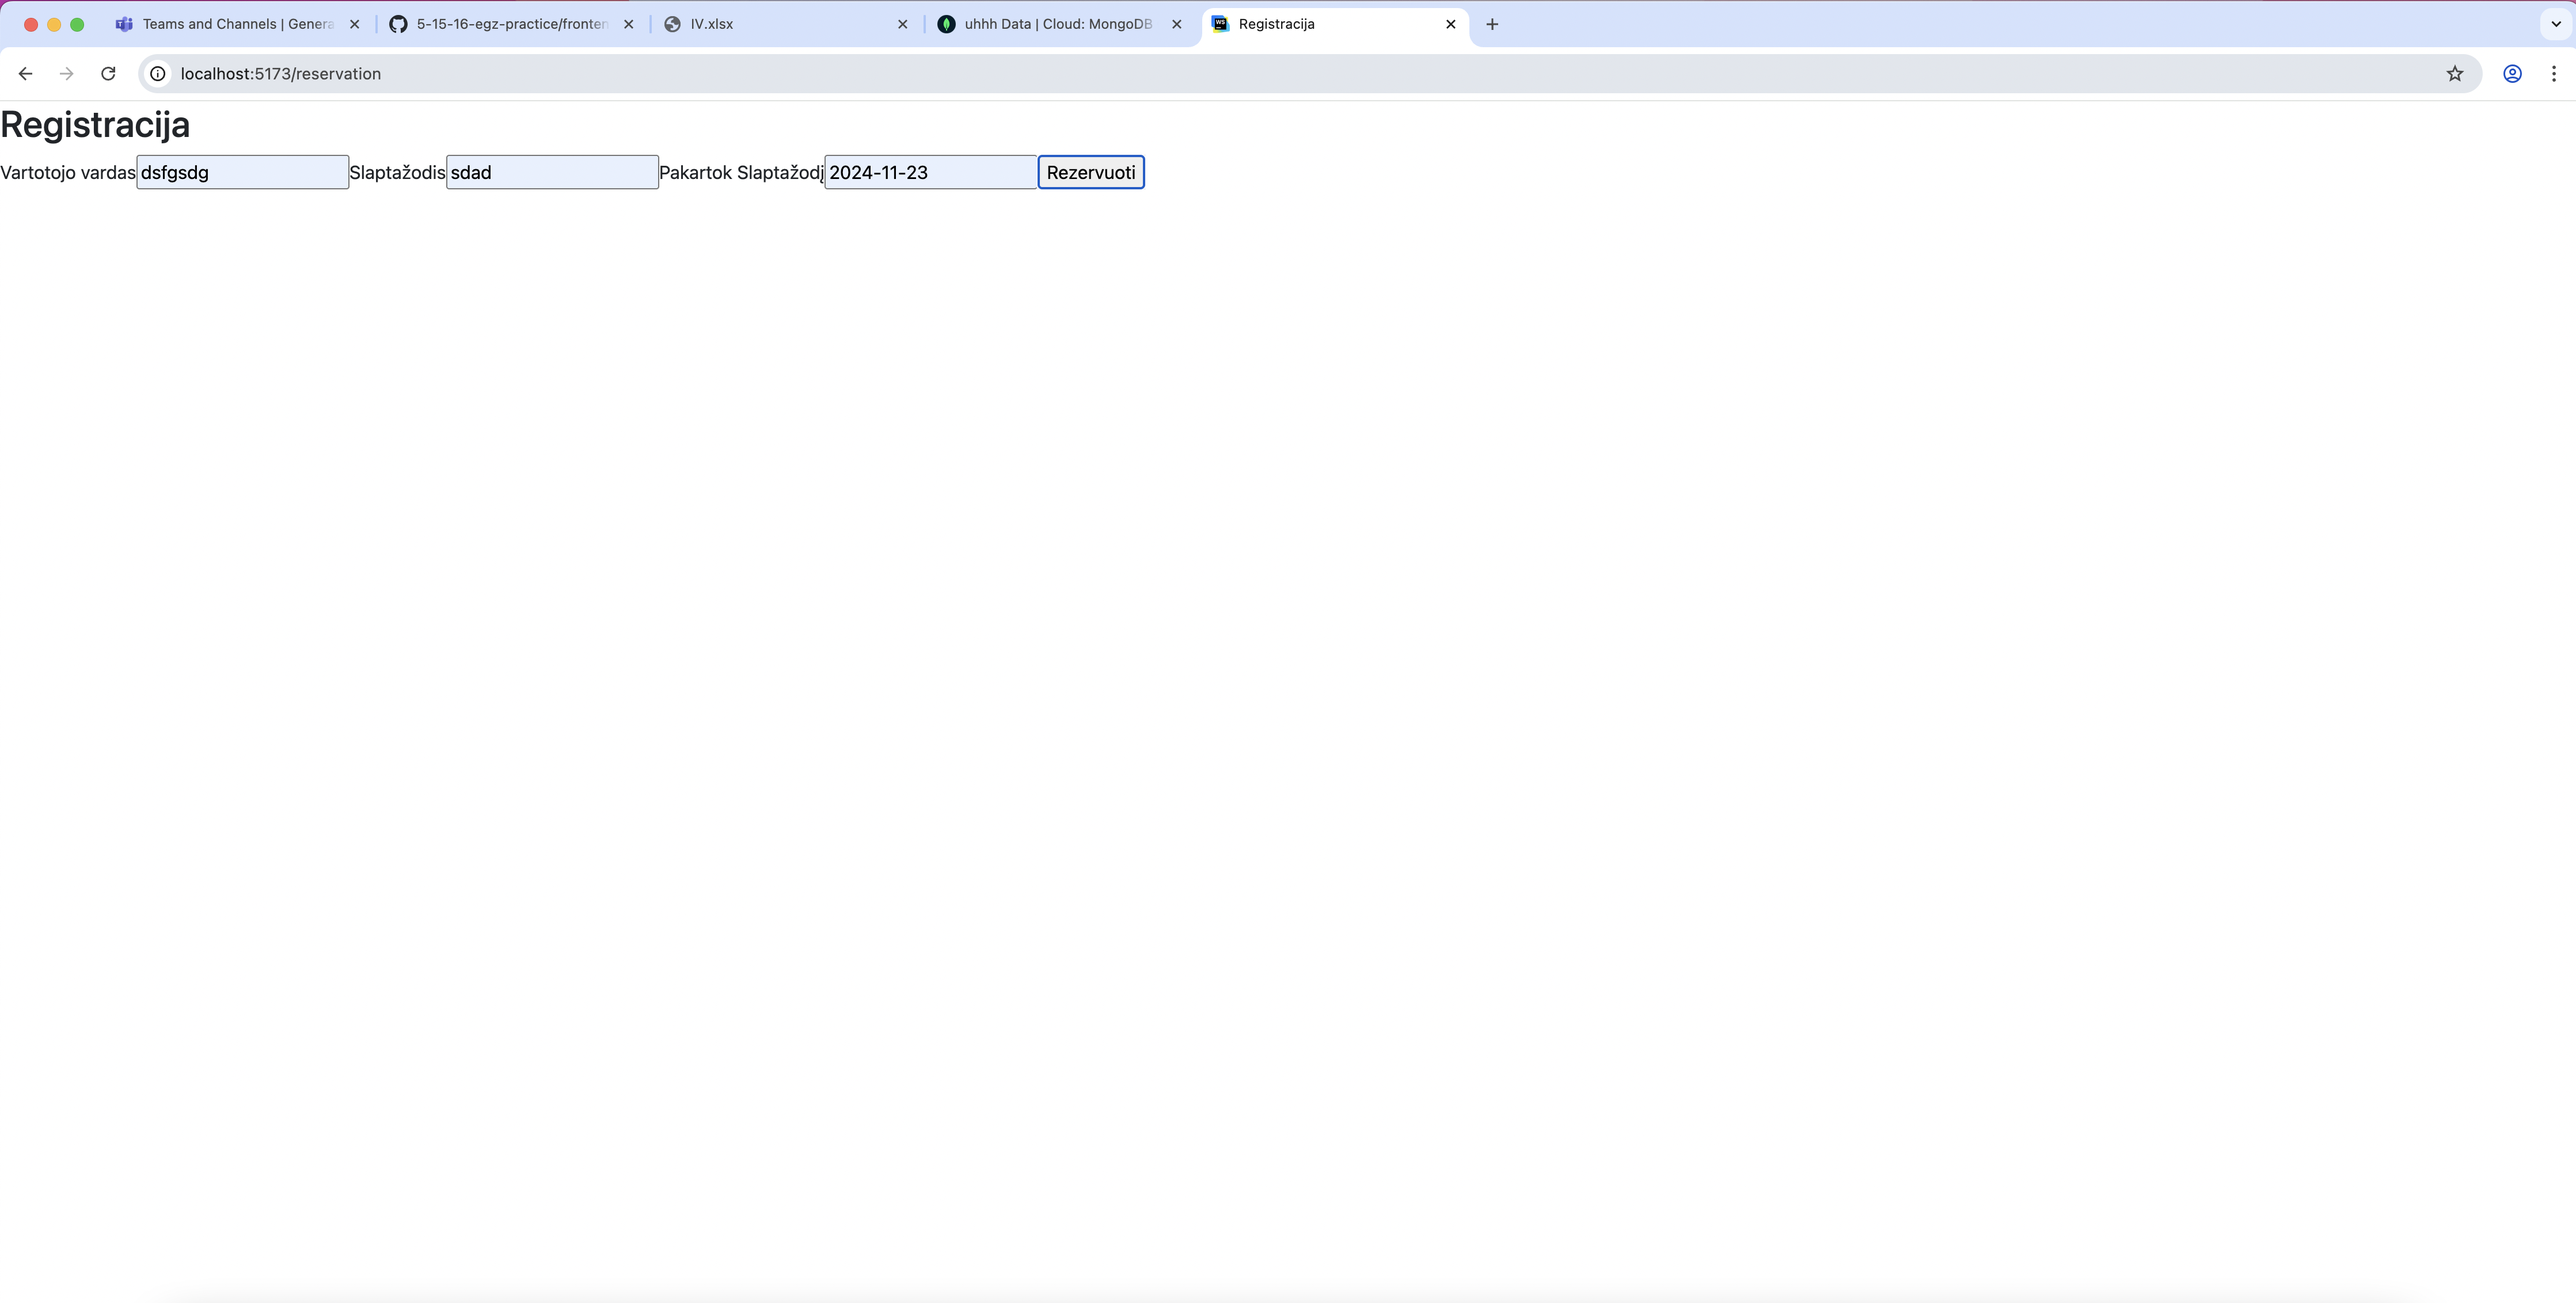
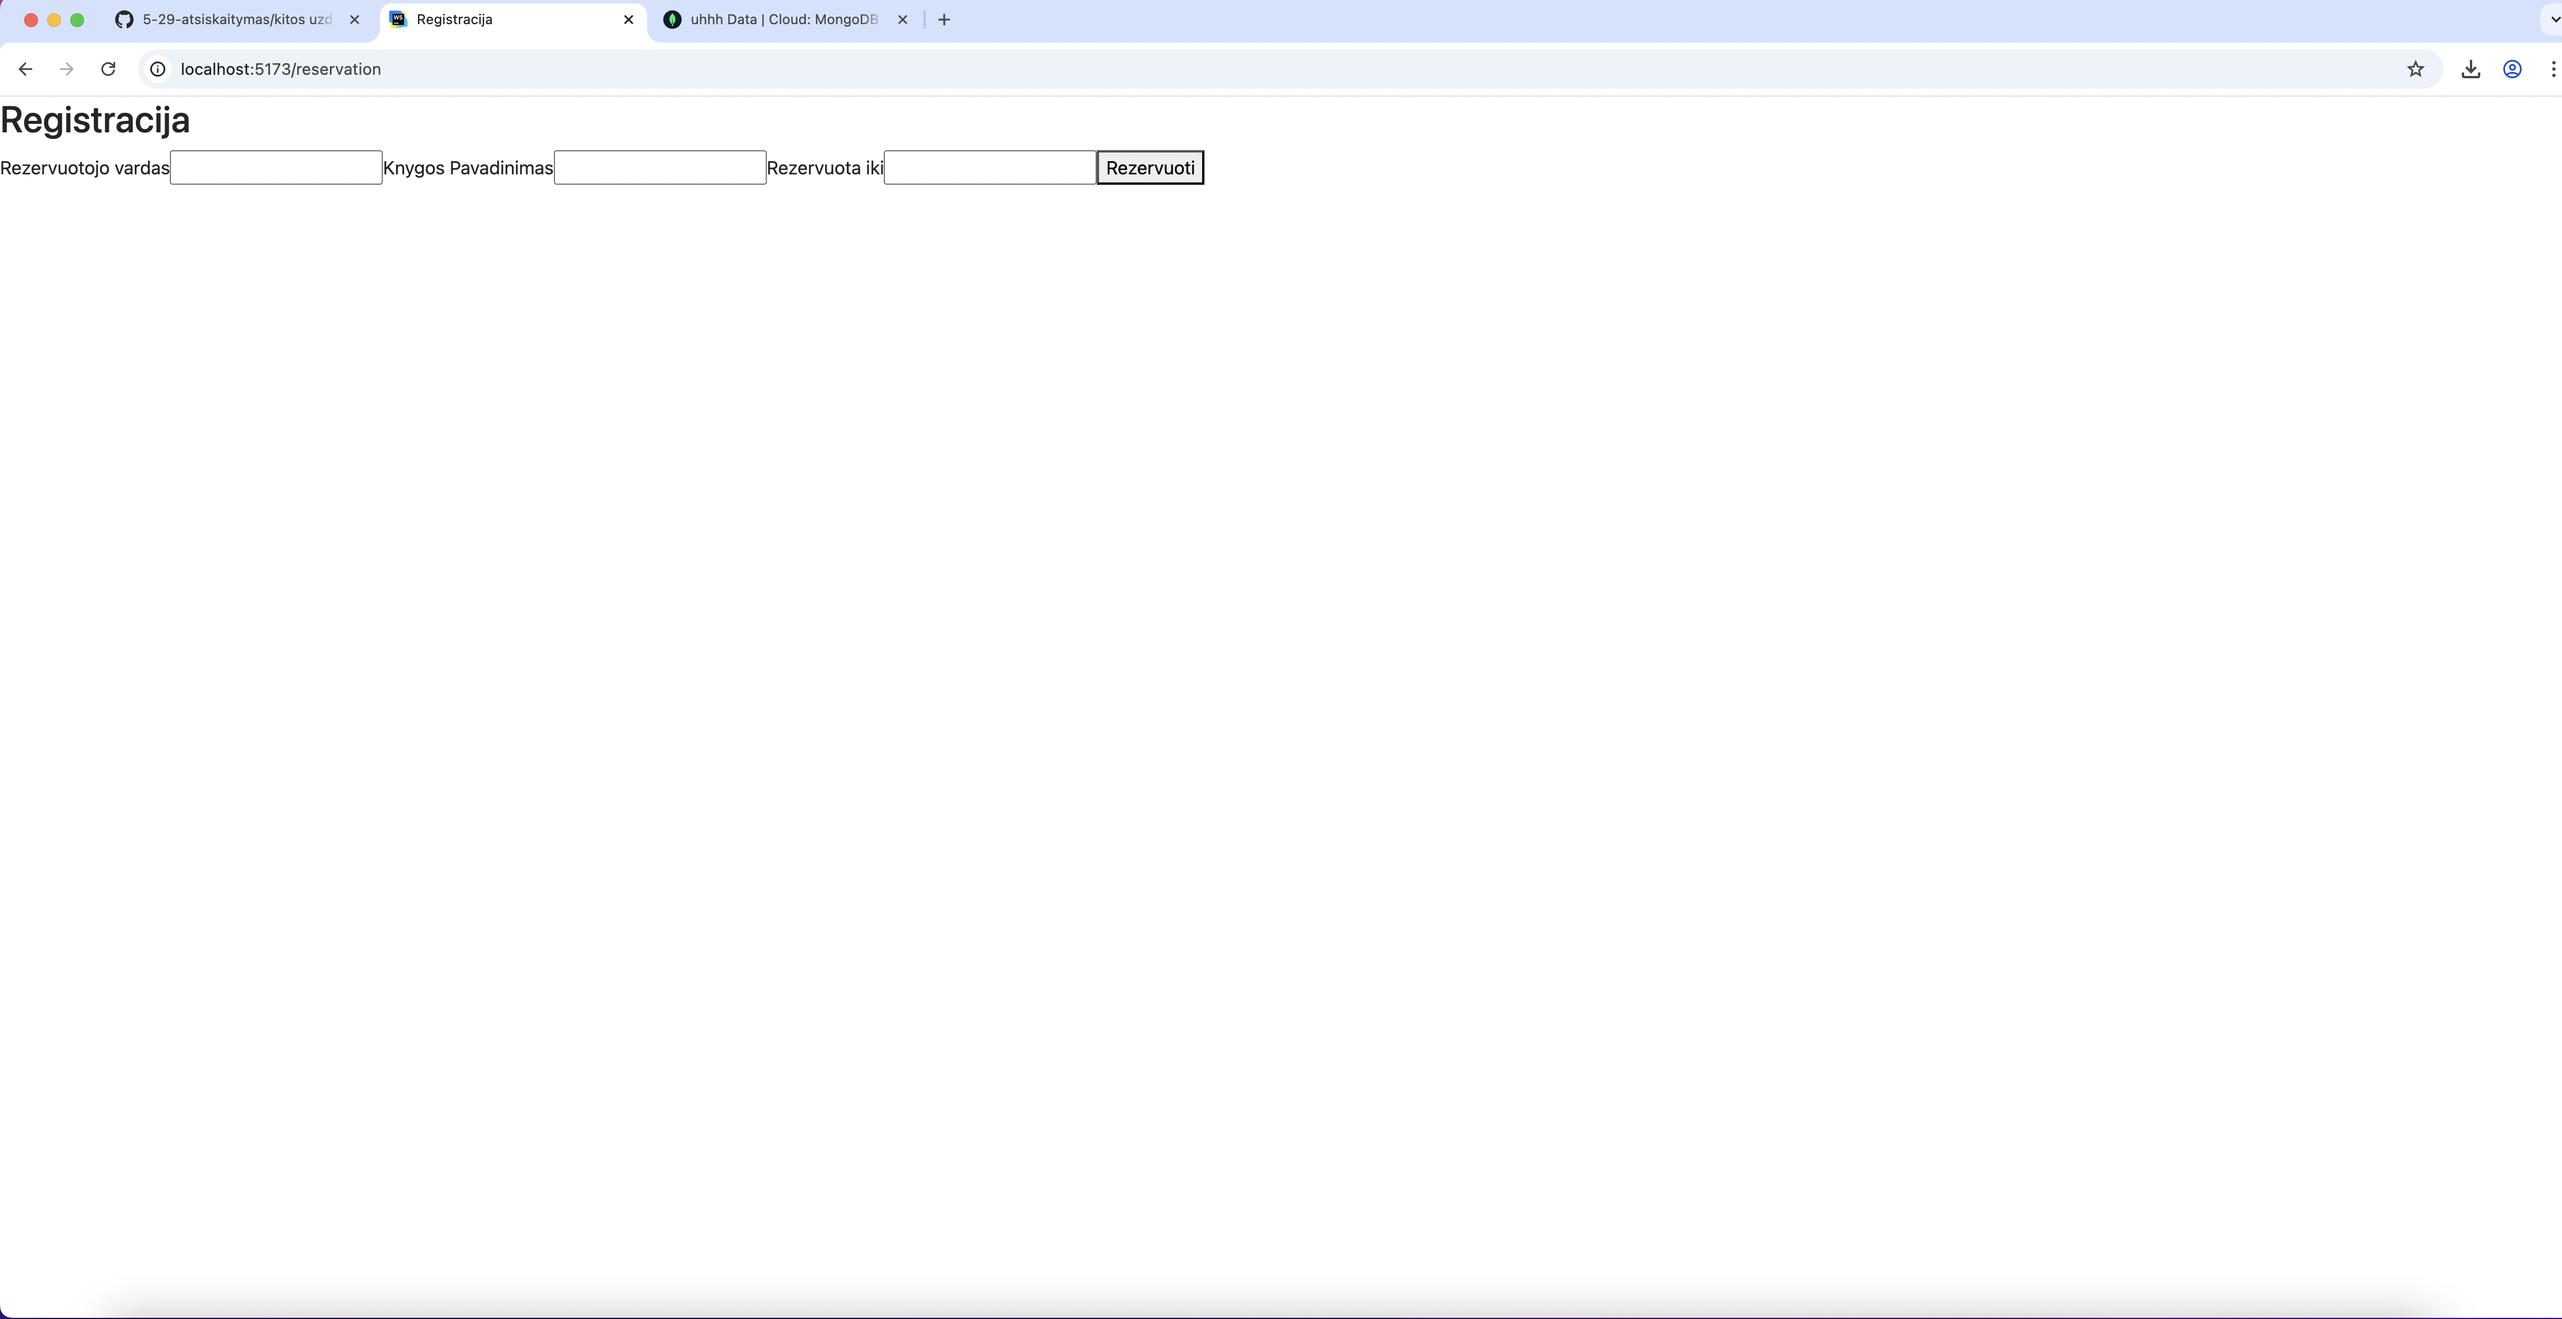
fixed screenshot

diff --git a/frontend/src/pages/Reservation.jsx b/frontend/src/pages/Reservation.jsx
@@ -38,7 +38,7 @@ function Reservation() {
     <div classuserName="form-container">
       <h2>Registracija</h2>
       <form onSubmit={handleSubmit} noValidate>
-        <label htmlFor="useruserName">Vartotojo vardas</label>
+        <label htmlFor="useruserName">Rezervuotojo vardas</label>
         <input
           type="text"
           id="useruserName"
@@ -48,7 +48,7 @@ function Reservation() {
           onChange={(e) => setUserName(e.target.value)}
           required
         />
-        <label htmlFor="bookName">Slaptažodis</label>
+        <label htmlFor="bookName">Knygos Pavadinimas</label>
         <input
           type="bookName"
           id="bookName"
@@ -58,9 +58,9 @@ function Reservation() {
           onChange={(e) => setBookName(e.target.value)}
           required
         />
-          <label htmlFor="bookName">Pakartok Slaptažodį</label>
+          <label htmlFor="reservedUntil">Rezervuota iki</label>
           <input
-              type="bookName"
+              type="reservedUntil"
               id="reservedUntil"
               userName="reservedUntil"
               classuserName="input"
